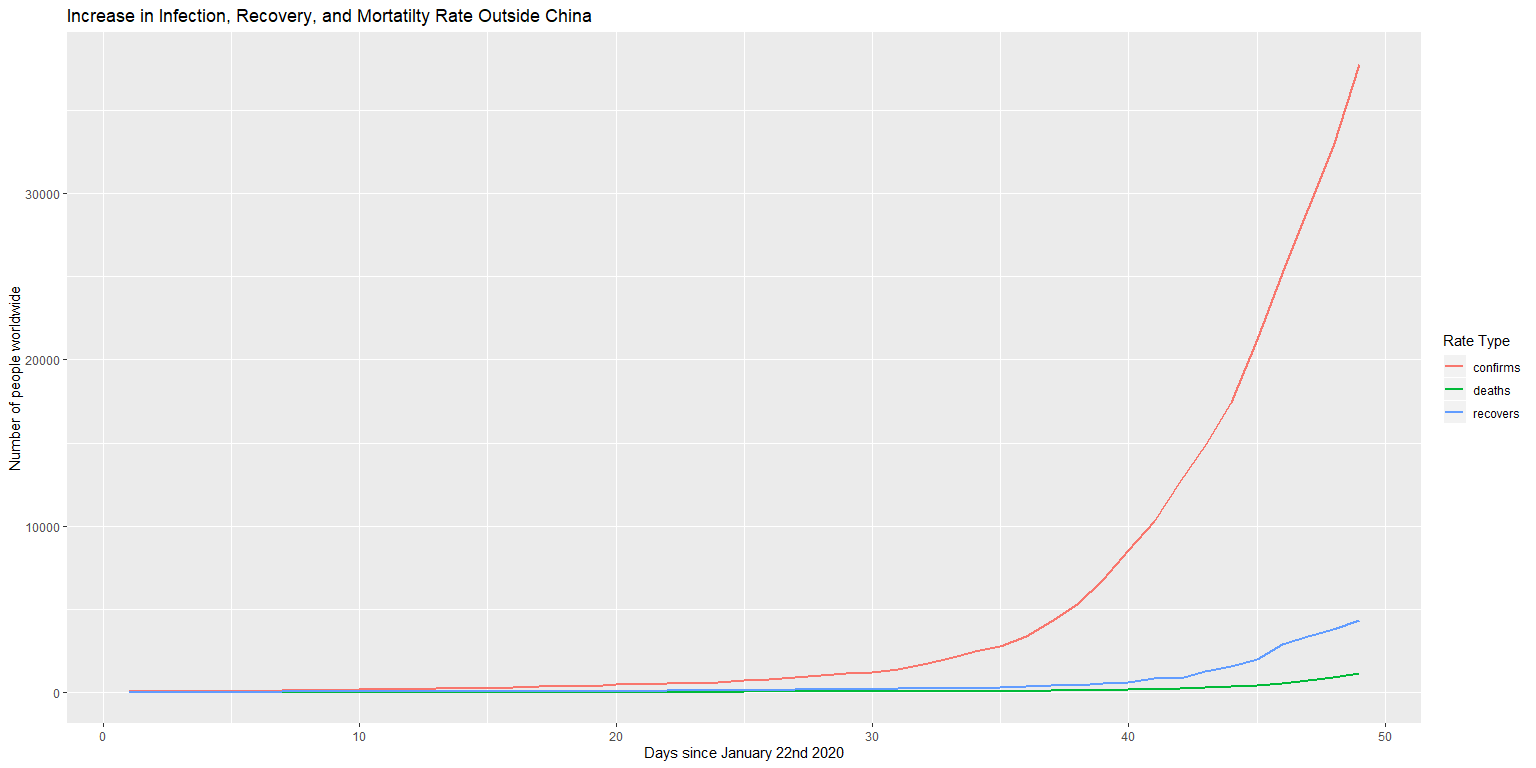
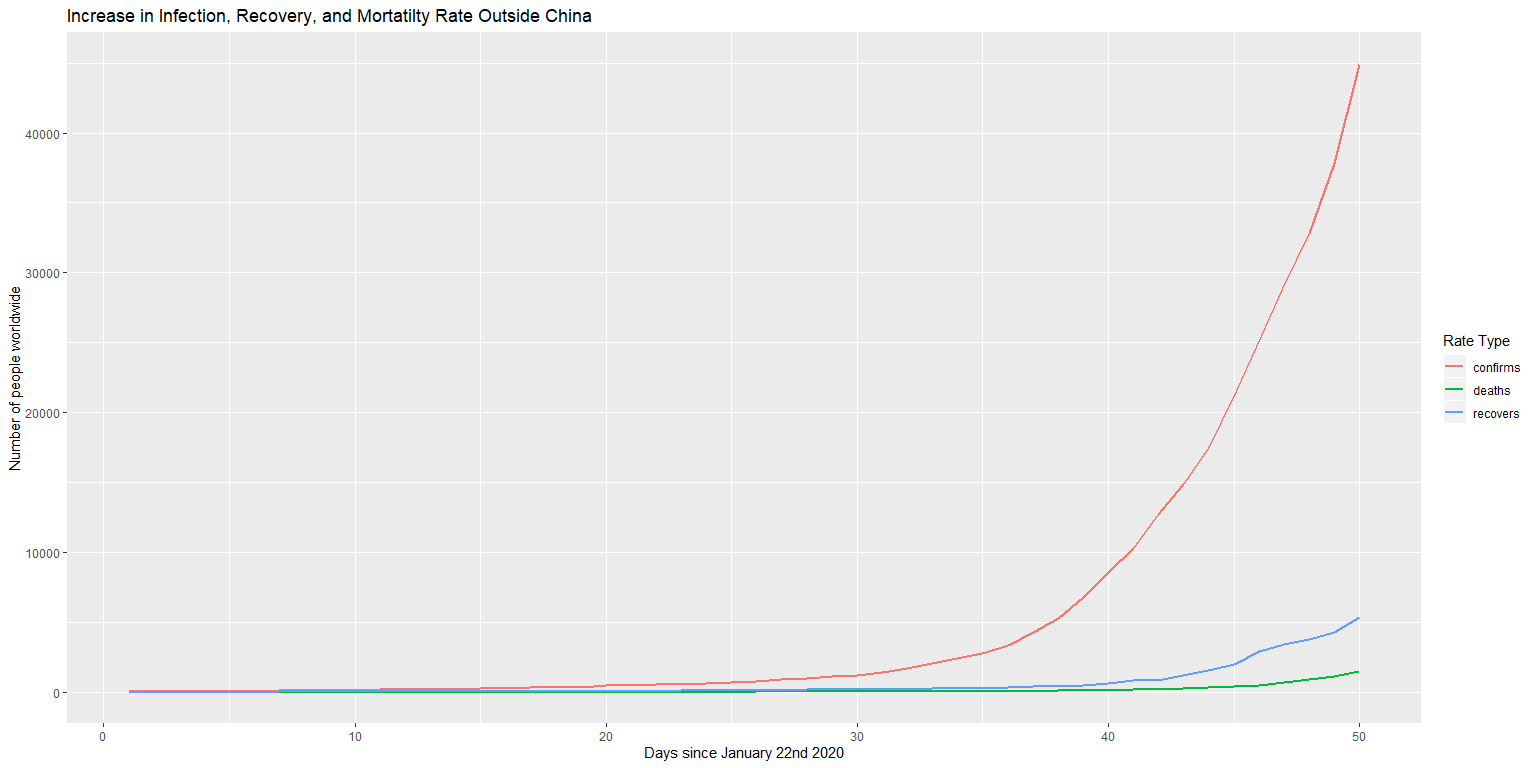
Updated README

diff --git a/README.md b/README.md
@@ -1,21 +1,21 @@
 COVID-19 Infection,Recovery, and Mortality Rates
 ================
 
-    ## [1] "As of:  Wed Mar 11 14:36:12 2020"
+    ## [1] "As of:  Wed Mar 11 22:40:14 2020"
 
-    ## [1] "Worldwide = 118582 cases-------One Week Ago = 92844"
+    ## [1] "Worldwide = 125865 cases-------One Week Ago = 95124"
 
-    ## [1] "China = 80757 cases-------One Week Ago = 80151"
+    ## [1] "China = 80921 cases-------One Week Ago = 80271"
 
-    ## [1] "Italy = 10149 cases-------One Week Ago = 2502"
+    ## [1] "Italy = 12462 cases-------One Week Ago = 3089"
 
-    ## [1] "US = 959 cases-------One Week Ago = 122"
+    ## [1] "US = 1281 cases-------One Week Ago = 153"
 
 *Plots:*
 ![](README_files/figure-gfm/unnamed-chunk-5-1.png)<!-- -->![](README_files/figure-gfm/unnamed-chunk-5-2.png)<!-- -->![](README_files/figure-gfm/unnamed-chunk-5-3.png)<!-- -->![](README_files/figure-gfm/unnamed-chunk-5-4.png)<!-- -->![](README_files/figure-gfm/unnamed-chunk-5-5.png)<!-- -->![](README_files/figure-gfm/unnamed-chunk-5-6.png)<!-- -->![](README_files/figure-gfm/unnamed-chunk-5-7.png)<!-- -->![](README_files/figure-gfm/unnamed-chunk-5-8.png)<!-- -->
 \_\_\_\_ *US Rates:*
 
-    ## [1] "The average rate of growth in the US since 1-22-2020 is a 0.18656521306949 percent increase in confirmed cases daily"
+    ## [1] "The average rate of growth in the US since 1-22-2020 is a 0.189610135728433 percent increase in confirmed cases daily"
 
 *If it is increasing by 0% then this means there were no new cases in
 that day. In terms of exponential growth as this constant goes from \> 0
